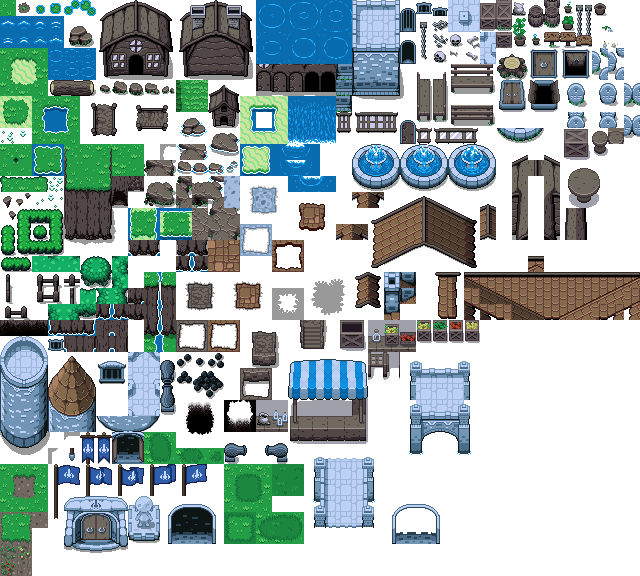
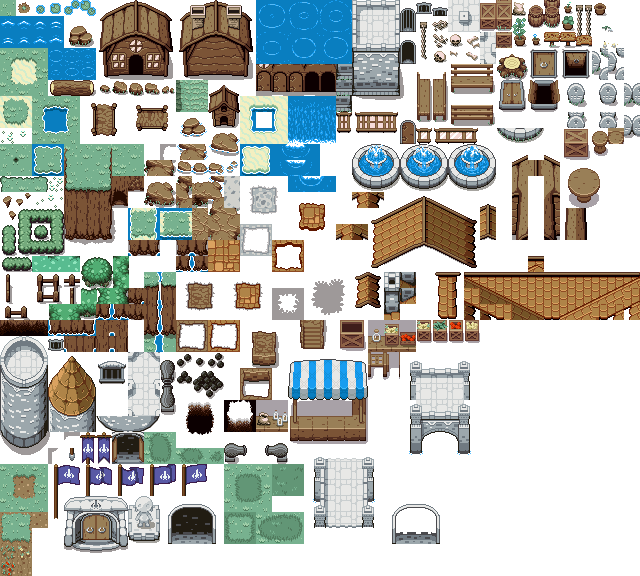
- revision of tilemap colors... still not there but better (will need real graphic work anyway) - first shot at fireball throwing. I will try particle emitters too, try a few things before choosing how i'll do it. - temporary shortcut from menu to game, skipping the intro. A real menu would do the t
@todo
- events need to be managed properly...
- collision fireball - monsters !
- collision fireball - environment to meet user expectations
- destructibles trees ???? That would be fun... keeping only burn and dammaged one

@Plan :
- add features (moving monster, simple AI, basic gameplay)
- revamped code: quest system, UI, keyboard/mouse and touch support ! Modal system...

diff --git a/scenes/Game.js b/scenes/Game.js
@@ -65,21 +65,47 @@ class Game extends Phaser.Scene {
     this.handleCollisions();
     this.showQuest();
 
-    
-    const fireball = this.physics.add.sprite(
-      0,
-      0,
-      "worldAnim",
-      "fireball-1"
-    ).setScale(0.25,0.25).setActive(false);
-    fireball.enableBody();
 
-    // just an experiment
+
+    // just an experiment, pretty sure there's a better way...
     this.input.keyboard.on('keydown_SPACE', (event) => {
-        fireball.setActive(true).setPosition(this.creatures["player"].spr.x, this.creatures["player"].spr.y);
-        fireball.anims.play("spr-fireball", true);
-        fireball.setVelocityX(200);
+      const frameName = this.creatures["player"].spr.frame.name;
+      const fireball = this.physics.add.sprite(
+        0,
+        0,
+        "worldAnim",
+        "fireball-1"
+      ).setScale(0.25,0.25).setVelocity(0);
+
+      const x = this.creatures["player"].spr.x;
+      const y = this.creatures["player"].spr.y;
+      if (frameName.indexOf('walkup') >= 0) {
+        fireball.setPosition(x + 10, y - 5).setVelocityY(-200);
+
+      } else if (frameName.indexOf('walkdown') >= 0) {
+        fireball.setPosition(x + 10, y + 25).setVelocityY(200);
+
+      } else if (frameName.indexOf('walkleft') >= 0) {
+        fireball.setPosition(x - 5, y + 10).setVelocityX(-200);
+
+      } else if (frameName.indexOf('walkright') >= 0) {
+        fireball.setPosition(x + 20, y + 10).setVelocityX(200);
+      }
+      fireball.enableBody();
+      fireball.body.setCollideWorldBounds(true); // Hero collides with the bounds of the screen
+      fireball.body.onWorldBounds = true;
+      fireball.anims.play("spr-fireball", true);
     });
+
+
+
+
+    this.physics.world.on('worldbounds', function(body){
+      var ball = body.gameObject;
+      if (ball.frame.name.indexOf('fireball') >= 0) {
+        ball.destroy();
+      }
+    });
 
 
 

diff --git a/scenes/Preload.js b/scenes/Preload.js
@@ -61,7 +61,7 @@ class Preload extends Phaser.Scene {
    */
   createBackground() {
     this.bg = this.add.graphics({ x: 0, y: 0 });
-    this.bg.fillStyle("0xF4CCA1", 1);
+    this.bg.fillStyle("0x476565", 1);
     this.bg.fillRect(0, 0, this.CONFIG.width, this.CONFIG.height);
   }
 
@@ -132,7 +132,7 @@ class Preload extends Phaser.Scene {
     this.progress.fillRect(0, 0, w * val, h);
 
     this.border.clear();
-    this.border.lineStyle(4, "0x4D6592", 1);
+    this.border.lineStyle(4, "0x0e1a1a", 1);
     this.border.strokeRect(0, 0, w * val, h);
 
     // Percentage in progress text

diff --git a/scenes/Menu.js b/scenes/Menu.js
@@ -122,6 +122,6 @@ class Menu extends Phaser.Scene {
    * goPlay - launch next scene
    */
   goPlay() {
-    this.scene.start("Intro", { music: this.menuMusic });
+    this.scene.start("Game", { music: this.menuMusic });
   }
 }
